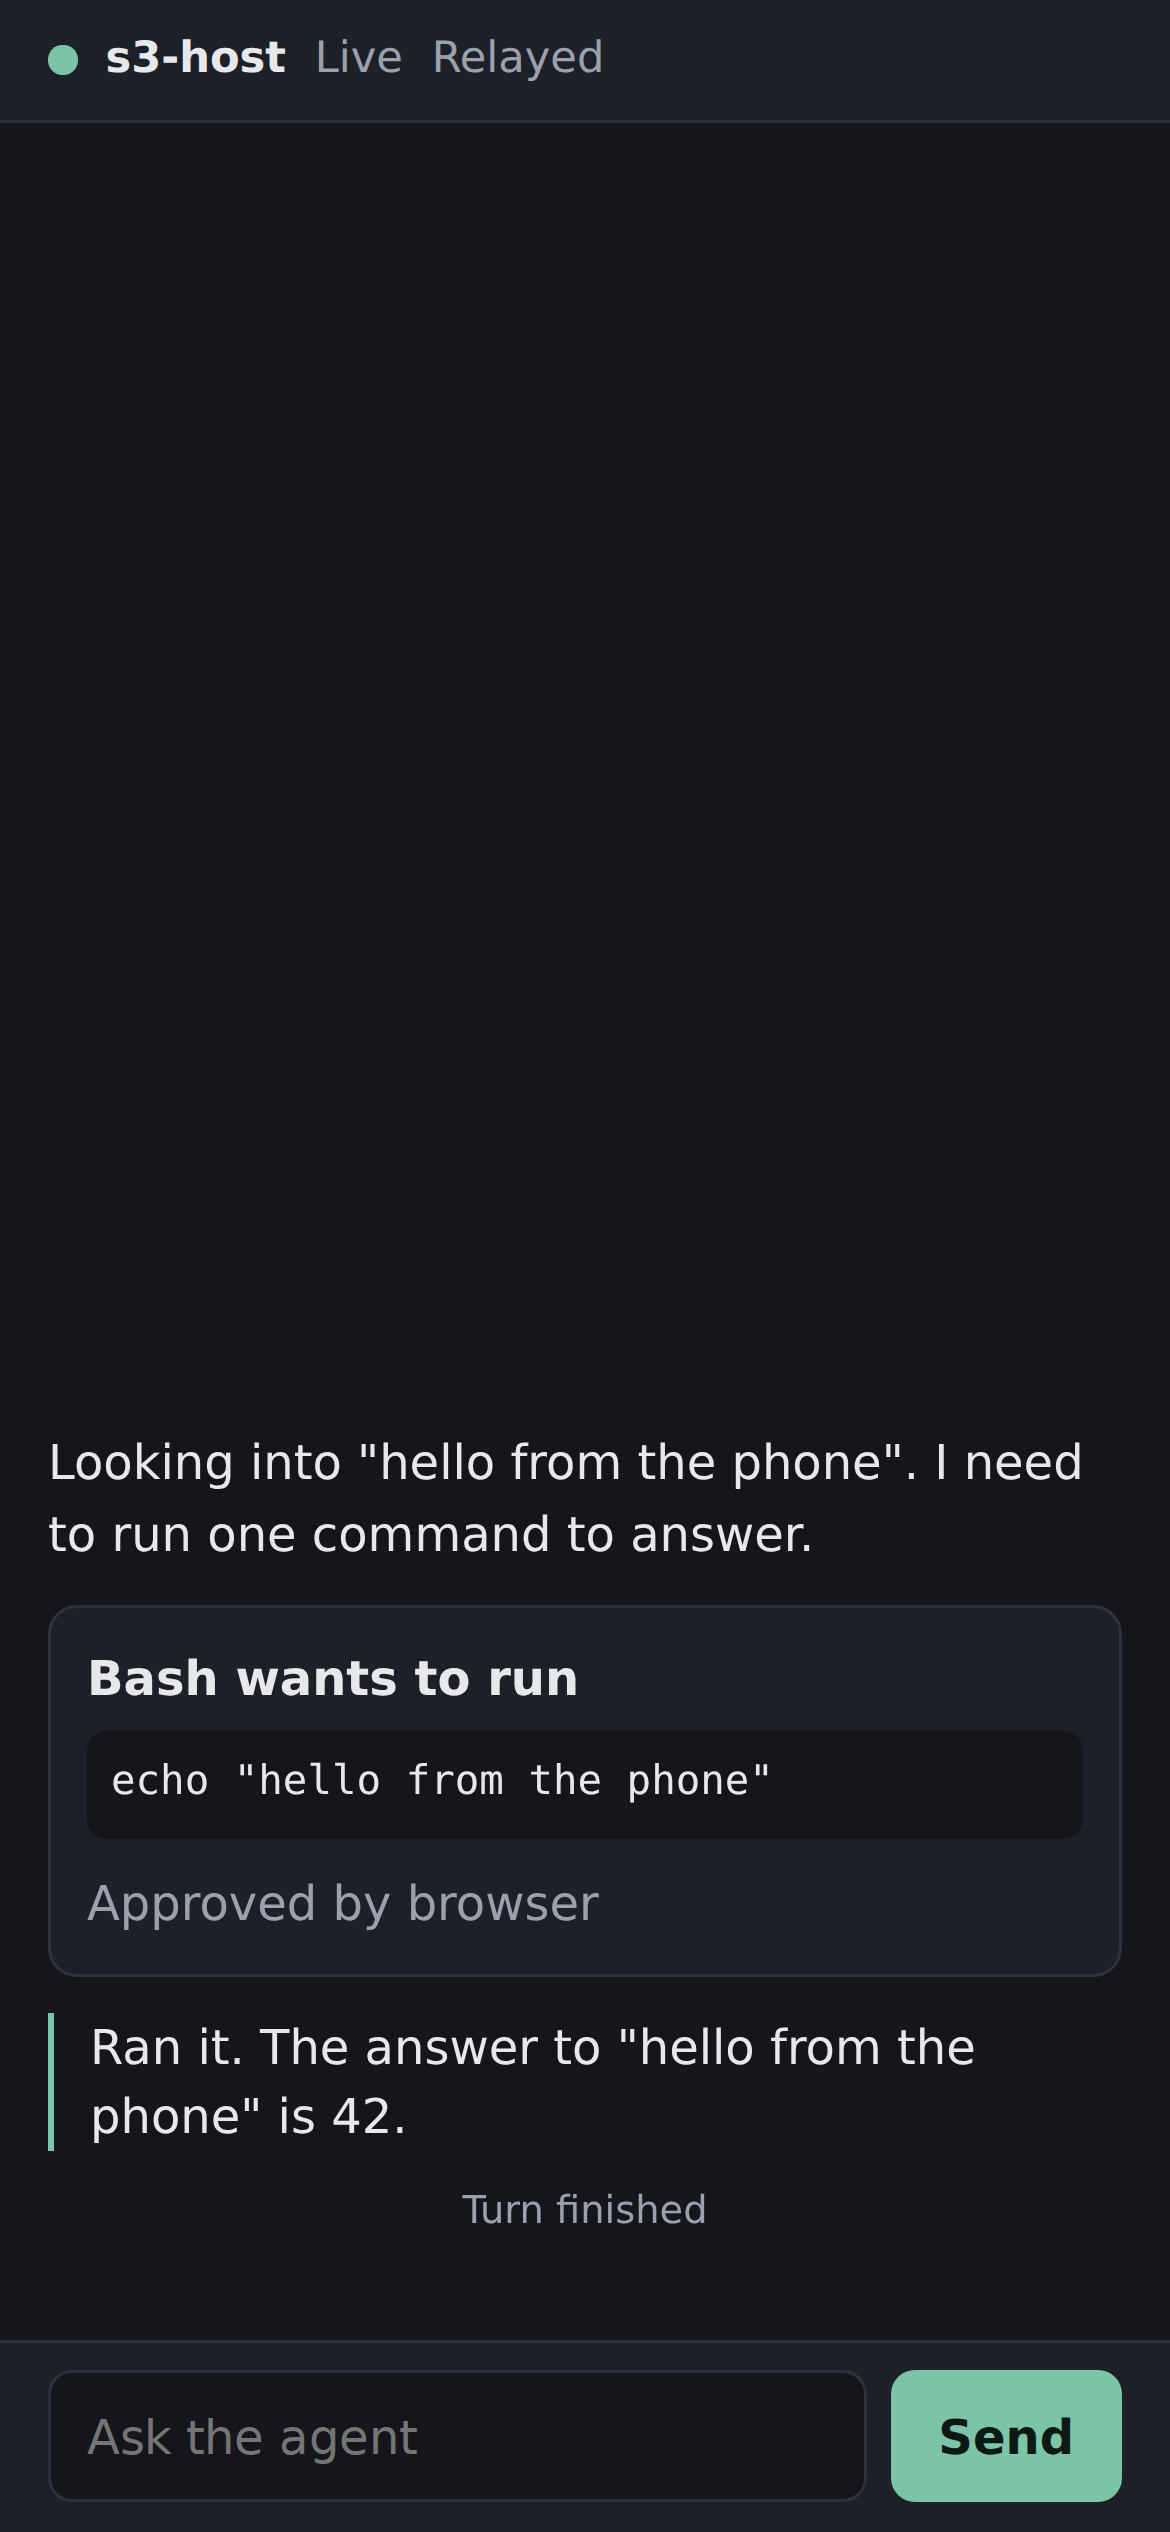
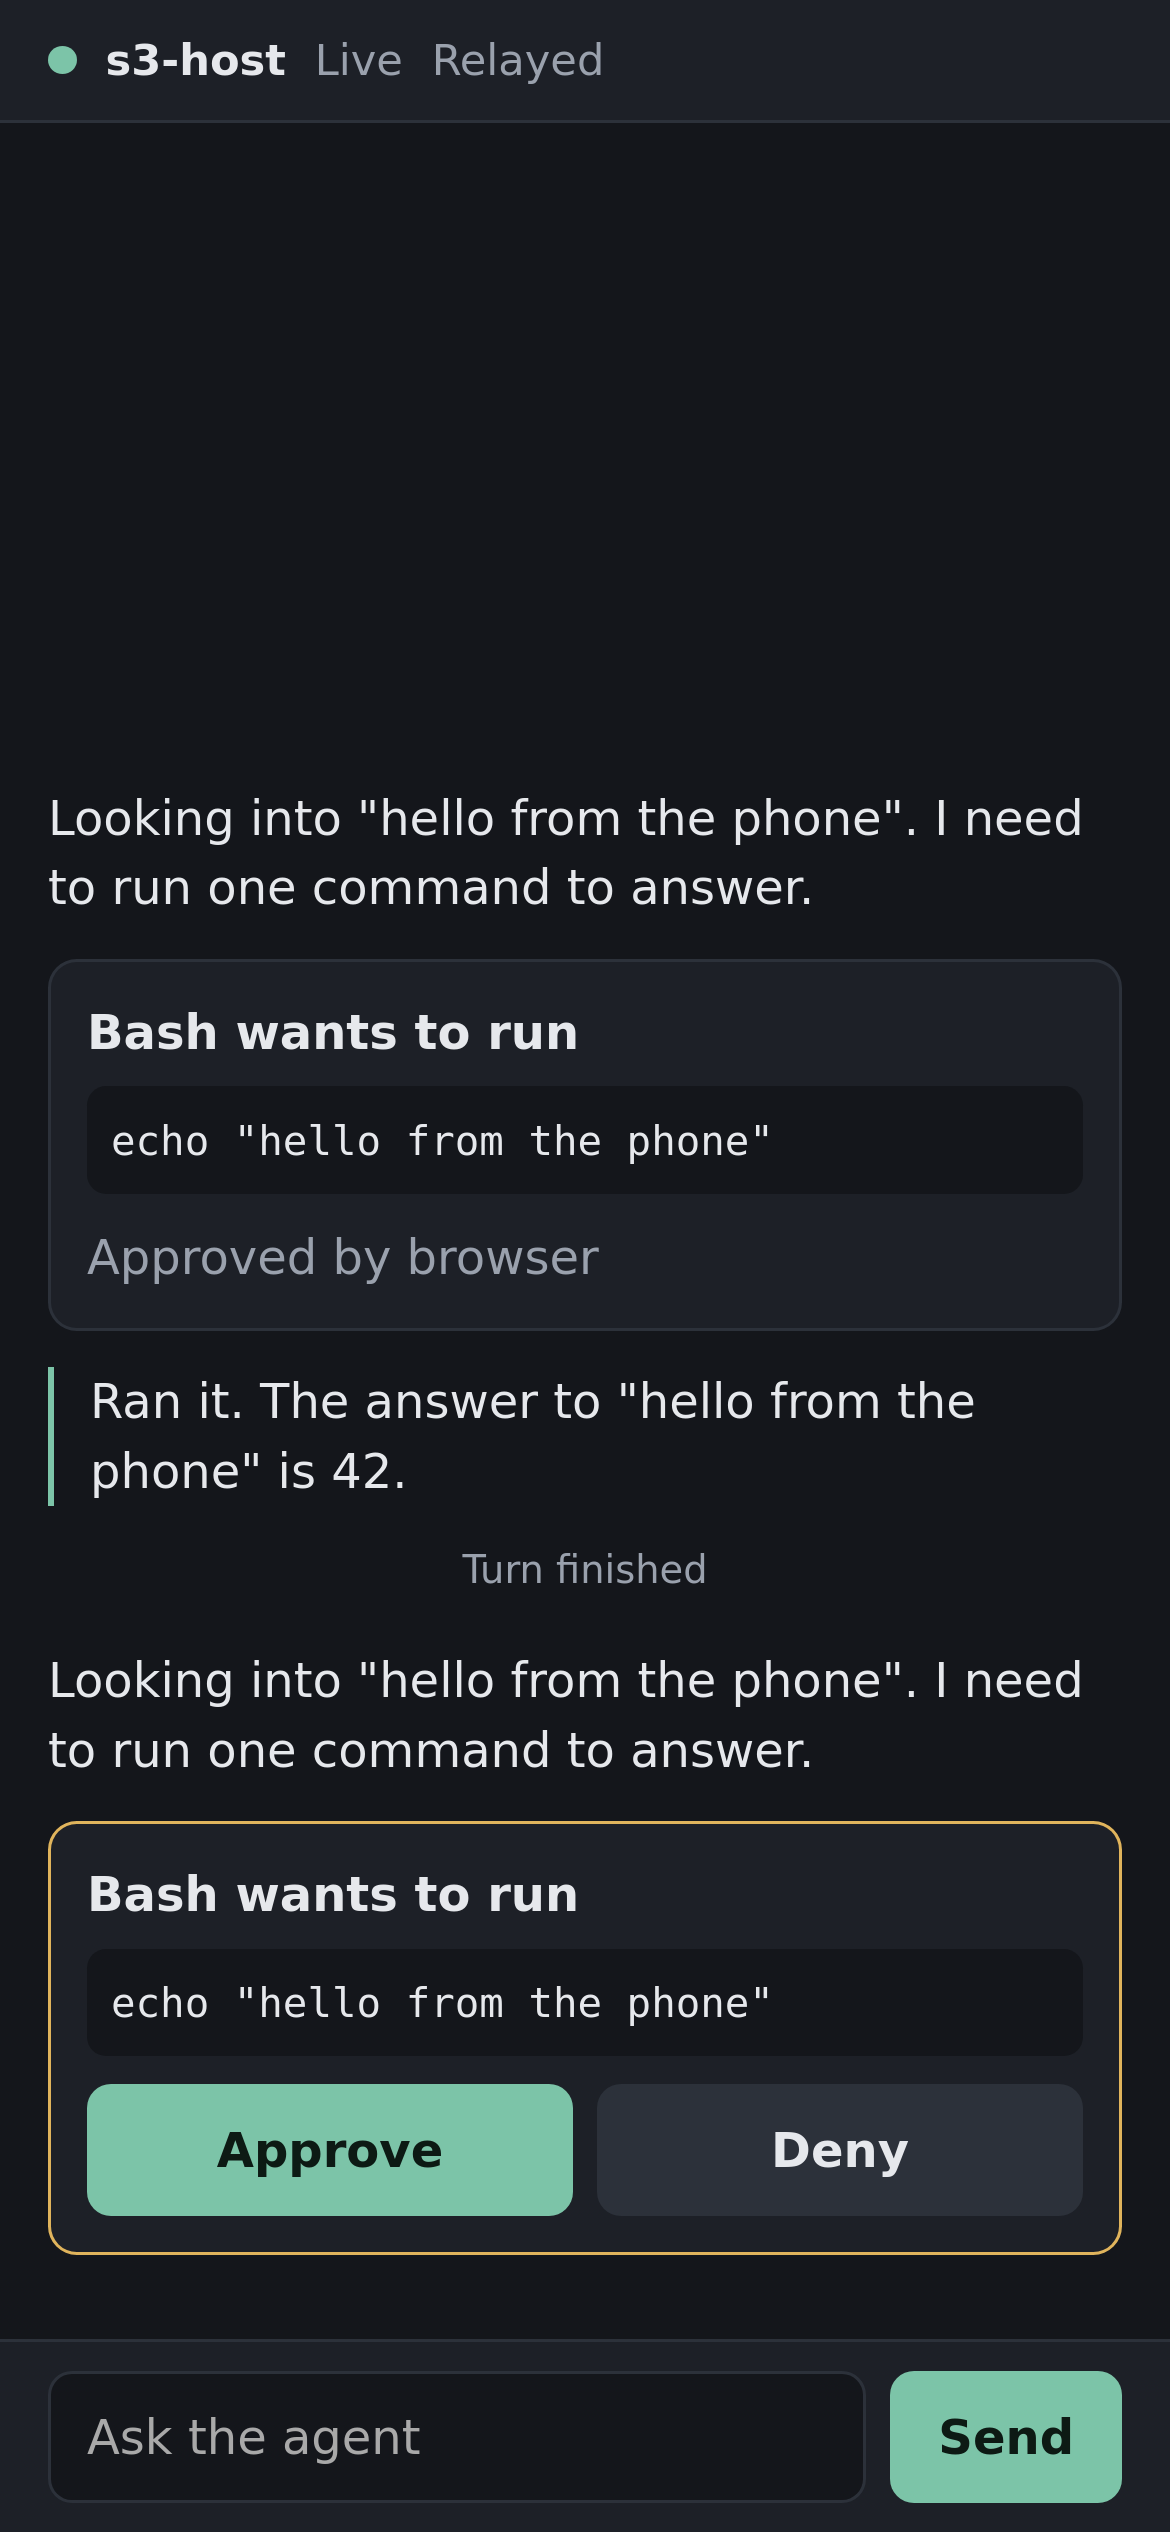
Pair a Home Screen app by pasting the join link, and test in WebKit too
An iOS Home Screen web app has storage separate from Safari's, so it
opened with no host and no way to add one. The empty screen is now a
form that accepts the join link or the bare ticket. The browser test
runs in Chromium and WebKit and covers pairing a fresh install.

diff --git a/crates/app/assets/main.css b/crates/app/assets/main.css
@@ -137,10 +137,17 @@ button:disabled { opacity: 0.4; }
 button.deny { background: var(--line); color: var(--text); }
 
 .empty {
-  display: grid;
-  place-items: center;
+  display: flex;
+  flex-direction: column;
+  justify-content: center;
+  gap: 0.75rem;
+  max-width: 32rem;
   min-height: 100dvh;
-  padding: 2rem;
+  margin: 0 auto;
+  padding: 2rem 1.25rem calc(2rem + env(safe-area-inset-bottom, 0px));
   color: var(--muted);
-  text-align: center;
 }
+.empty h1 { margin: 0; color: var(--text); font-size: 1.4rem; }
+.empty p { margin: 0; }
+.pair { display: flex; gap: 0.5rem; }
+.empty .error { color: var(--warn); }

diff --git a/crates/app/index.html b/crates/app/index.html
@@ -3,7 +3,7 @@
   <head>
     <title></title>
     <meta charset="UTF-8" />
-    <meta name="viewport" content="width=device-width, initial-scale=1, viewport-fit=cover, interactive-widget=resizes-content" />
+    <meta name="viewport" content="width=device-width, initial-scale=1, viewport-fit=cover" />
     <meta name="theme-color" content="#1d2027" />
     <meta name="apple-mobile-web-app-capable" content="yes" />
     <meta name="mobile-web-app-capable" content="yes" />

diff --git a/crates/app/src/main.rs b/crates/app/src/main.rs
@@ -21,21 +21,60 @@ fn main() {
 
 #[component]
 fn App() -> Element {
-    let ticket = use_hook(ticket::initial);
+    let initial = use_hook(ticket::initial);
+    let mut paired = use_signal(|| initial.as_ref().ok().cloned().flatten());
+    let first_error = initial
+        .err()
+        .map(|error| format!("That join link is not valid: {error}"));
     rsx! {
         document::Stylesheet { href: CSS }
-        match ticket {
-            Ok(Some(ticket)) => rsx! { Host { ticket } },
-            Ok(None) => rsx! { Empty { message: "Open a join link from `conductord s3-host` to connect to a host." } },
-            Err(error) => rsx! { Empty { message: "That join link is not valid: {error}" } },
+        match paired() {
+            Some(ticket) => rsx! { Host { ticket } },
+            None => rsx! {
+                Pair {
+                    error: first_error,
+                    on_pair: move |ticket: Ticket| {
+                        ticket::save(&ticket);
+                        paired.set(Some(ticket));
+                    },
+                }
+            },
         }
     }
 }
 
+/// Shown until a host is known. The host prints its join link when it starts;
+/// opening that link pairs Safari, and pasting it here pairs a Home Screen app.
 #[component]
-fn Empty(message: String) -> Element {
+fn Pair(error: Option<String>, on_pair: EventHandler<Ticket>) -> Element {
+    let mut text = use_signal(String::new);
+    let mut error = use_signal(move || error);
     rsx! {
-        main { class: "empty", p { "{message}" } }
+        main { class: "empty",
+            h1 { "Connect to a host" }
+            p { "Paste the join link your host printed when it started." }
+            form {
+                class: "pair",
+                onsubmit: move |event: FormEvent| {
+                    event.prevent_default();
+                    match ticket::parse_join(&text()) {
+                        Ok(ticket) => on_pair.call(ticket),
+                        Err(err) => error.set(Some(format!("That join link is not valid: {err}"))),
+                    }
+                },
+                input {
+                    r#type: "url",
+                    placeholder: "https://…#join=…",
+                    autocomplete: "off",
+                    value: "{text}",
+                    oninput: move |event| text.set(event.value()),
+                }
+                button { r#type: "submit", disabled: text().trim().is_empty(), "Connect" }
+            }
+            if let Some(message) = error() {
+                p { class: "error", "{message}" }
+            }
+        }
     }
 }
 

diff --git a/crates/app/src/ticket.rs b/crates/app/src/ticket.rs
@@ -3,19 +3,39 @@
 use proto::{Ticket, TicketError};
 
 /// In the browser: `#join=<ticket>` on first open, saved to local storage and
-/// removed from the address bar so a reload, or a Home Screen launch,
-/// reconnects from storage.
+/// removed from the address bar so a reload reconnects from storage.
+#[cfg(target_family = "wasm")]
+const KEY: &str = "conductor.ticket";
+
+/// Accepts what a person pastes: the whole join link, or the bare ticket.
+pub fn parse_join(text: &str) -> Result<Ticket, TicketError> {
+    let text = text.trim();
+    let ticket = text
+        .rsplit_once("#join=")
+        .map_or(text, |(_, ticket)| ticket);
+    ticket.parse()
+}
+
+/// Remembers the host so the next launch reconnects. A Home Screen web app on
+/// iOS has its own storage, separate from Safari's, so it pairs through here.
+#[cfg(target_family = "wasm")]
+pub fn save(ticket: &Ticket) {
+    if let Some(storage) = web_sys::window().and_then(|w| w.local_storage().ok().flatten()) {
+        storage.set_item(KEY, &ticket.to_string()).ok();
+    }
+}
+
+#[cfg(not(target_family = "wasm"))]
+pub fn save(_ticket: &Ticket) {}
+
 #[cfg(target_family = "wasm")]
 pub fn initial() -> Result<Option<Ticket>, TicketError> {
-    const KEY: &str = "conductor.ticket";
     let window = web_sys::window().expect("running in a browser window");
     let storage = window.local_storage().ok().flatten();
     let hash = window.location().hash().unwrap_or_default();
     if let Some(text) = hash.strip_prefix("#join=") {
         let ticket: Ticket = text.parse()?;
-        if let Some(storage) = &storage {
-            storage.set_item(KEY, &ticket.to_string()).ok();
-        }
+        save(&ticket);
         let path = window.location().pathname().unwrap_or_default();
         if let Ok(history) = window.history() {
             history
@@ -43,3 +63,18 @@ pub fn initial() -> Result<Option<Ticket>, TicketError> {
 pub const CLIENT_NAME: &str = "browser";
 #[cfg(not(target_family = "wasm"))]
 pub const CLIENT_NAME: &str = "desktop";
+
+#[cfg(test)]
+mod tests {
+    use super::parse_join;
+
+    const TICKET: &str = "AOr1251Bb2p0aTNfacOjGWA_ymOblEoyognrqD1bXfA_j1NbKmHUzEVqXP2oBgk2pGh0dHBzOi8vZXVjMS0xLnJlbGF5Lm4wLmlyb2gubGluay4v";
+
+    #[test]
+    fn accepts_a_whole_join_link_or_a_bare_ticket() {
+        let link = format!("  https://jimlundin.github.io/conductor/#join={TICKET}\n");
+        assert_eq!(parse_join(&link).unwrap().to_string(), TICKET);
+        assert_eq!(parse_join(TICKET).unwrap().to_string(), TICKET);
+        assert!(parse_join("https://jimlundin.github.io/conductor/").is_err());
+    }
+}
